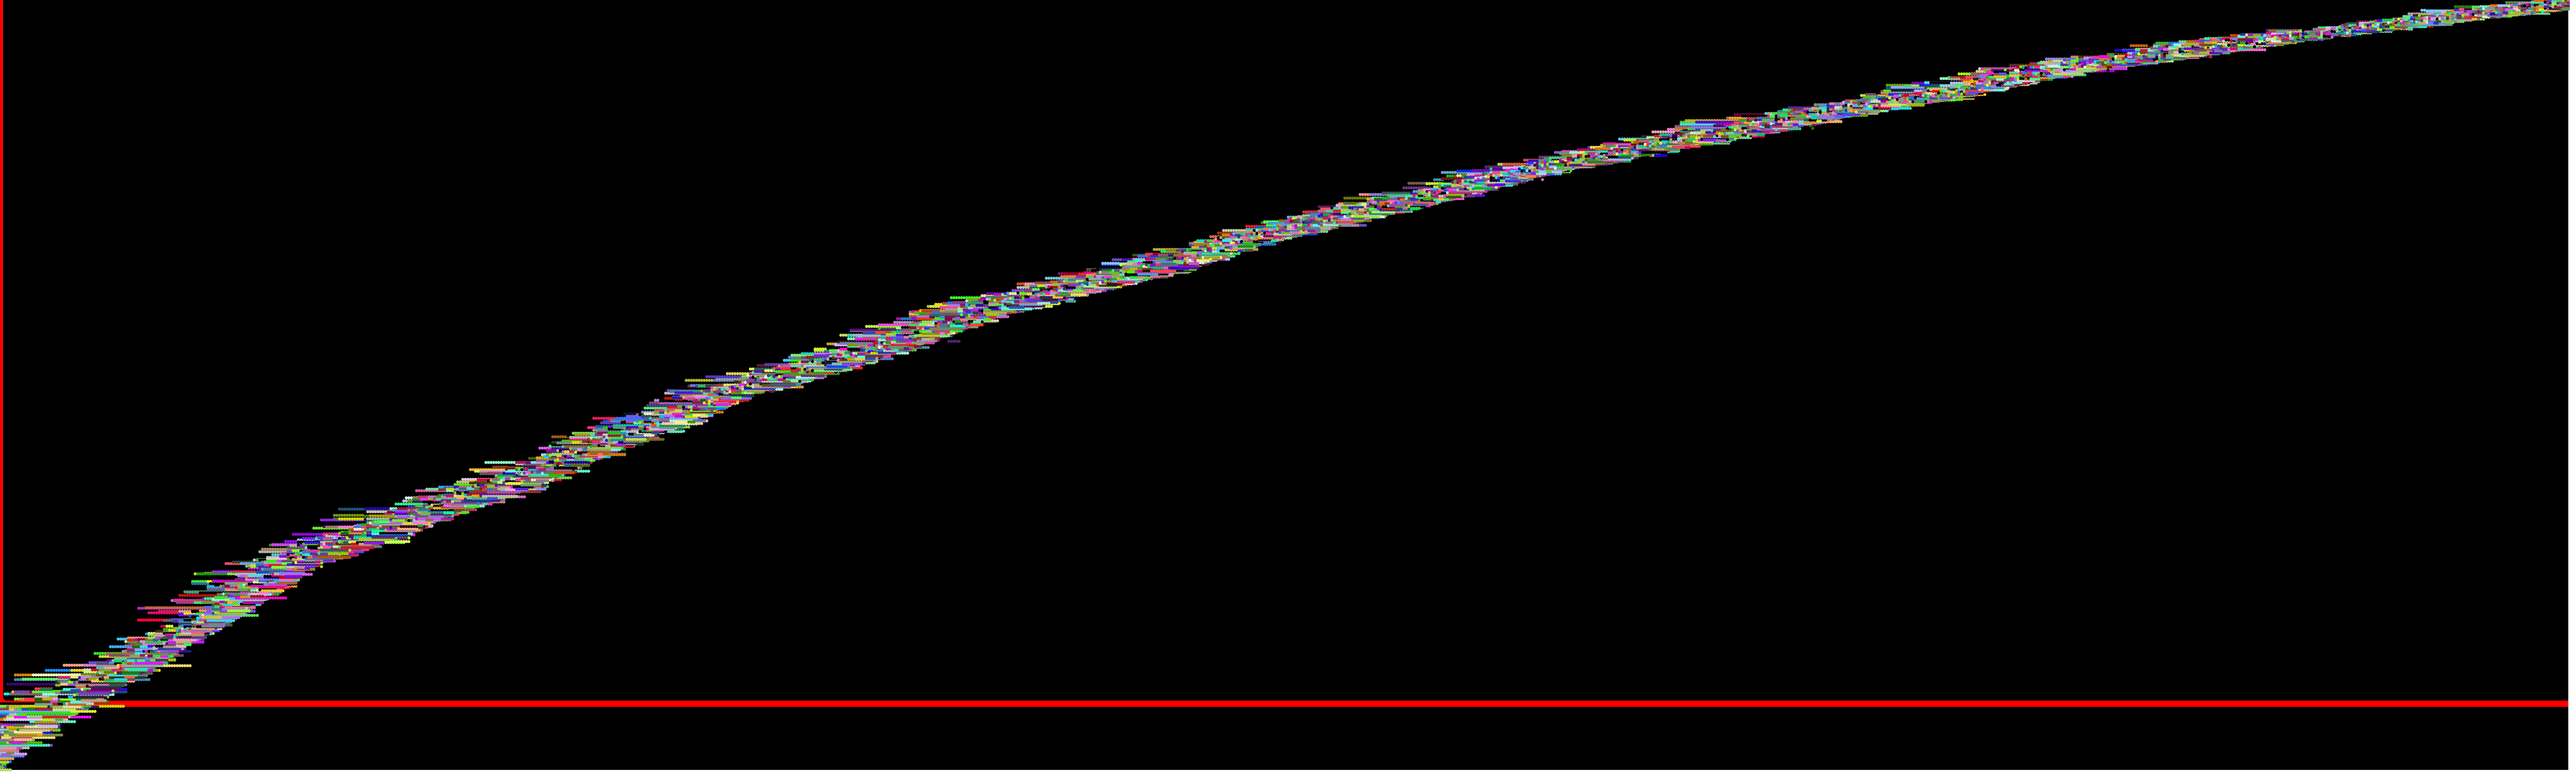
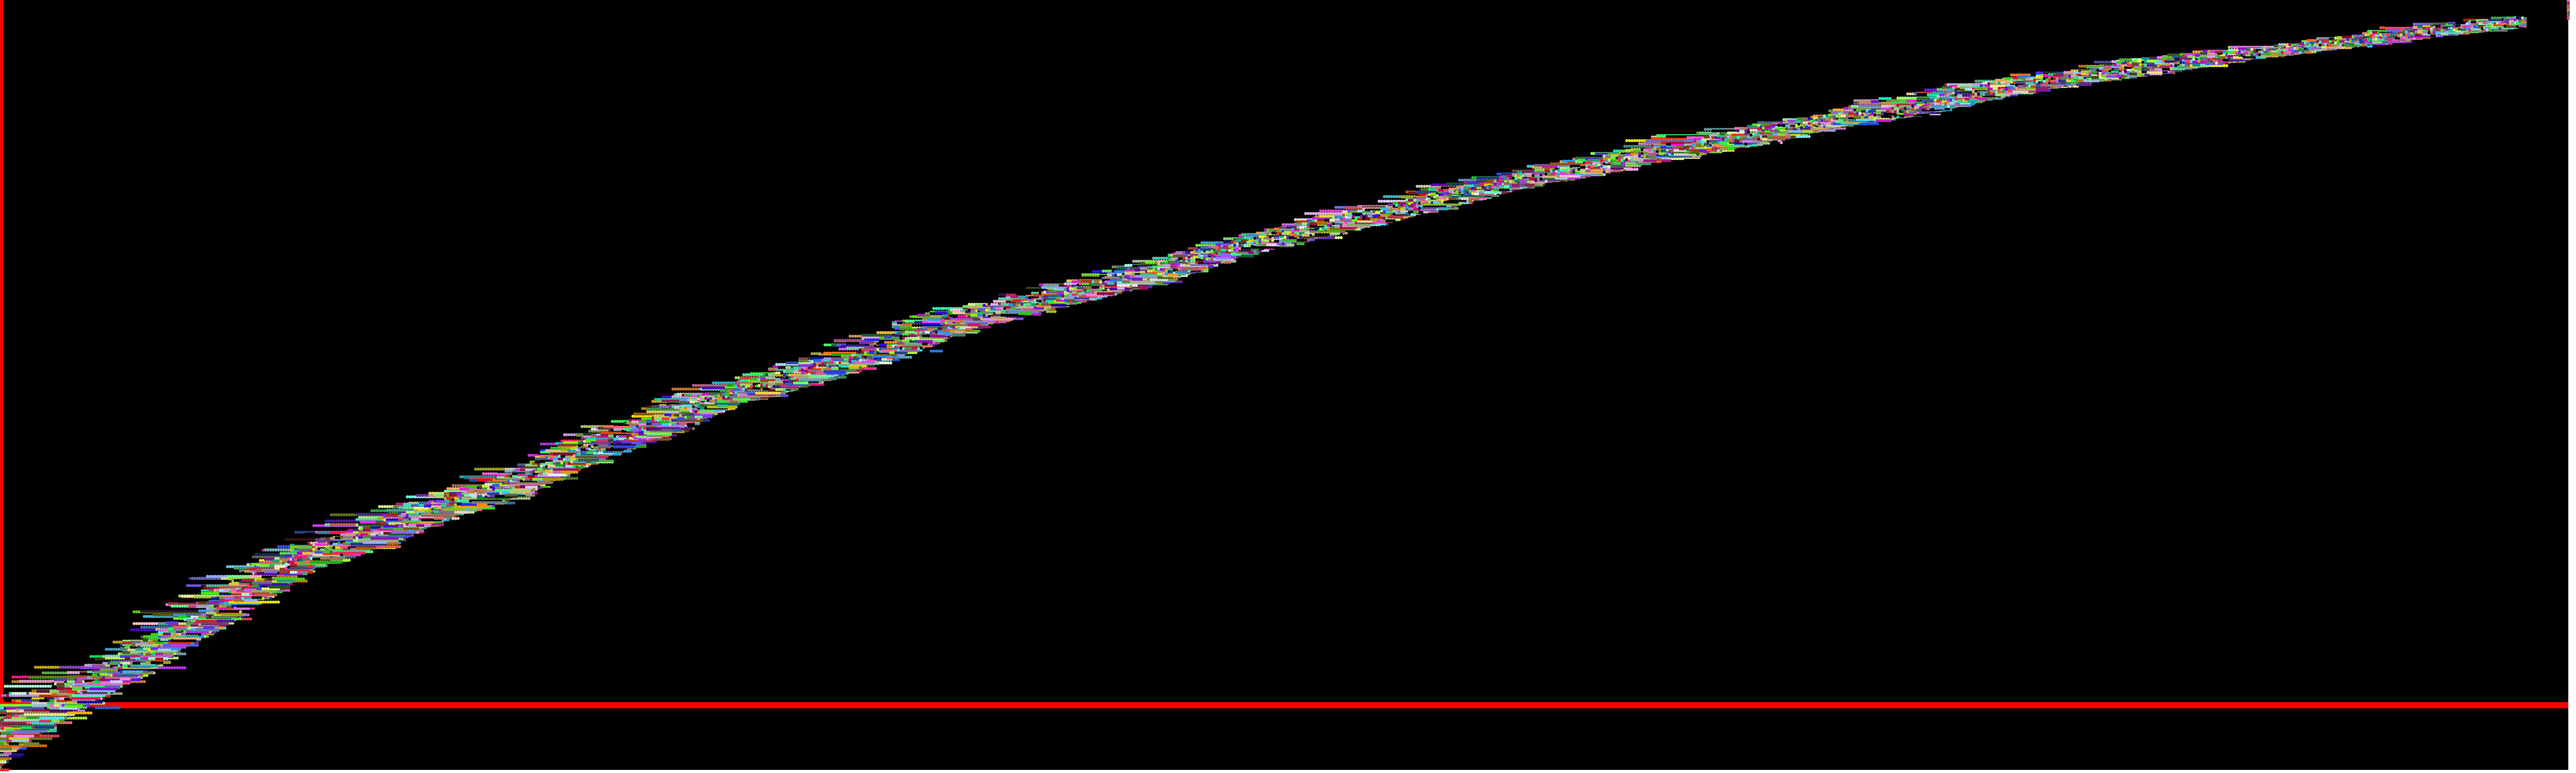
more species more culling

Changed region(s): [[0.0, 0.0, 1.0, 0.9987]]

diff --git a/index.js b/index.js
@@ -5,7 +5,7 @@ const apiurls = [post];
 let aggrocalls = 0;
 const active_forms = {};
 // "configuration string":{"stats":{}, "age":0}
-const max_forms = 100;
+const max_forms = 125;
 const iterations = 100000000;
 const log_interval = 100; //interval to save a snapshot of active_forms in ./log/
 fs.mkdirSync("../../../reactorsaves", { recursive: true });
@@ -174,8 +174,8 @@ async function main() {
         }).forEach((value, index) => {
             changesbefore.push(active_forms[value]["stats"]["output"]["avg"]);
         });
-        for (let j = 0; j < Math.ceil(Math.random() * max_forms / 5); j++) {
-            if (Object.keys(active_forms).length >= max_forms / 2) { //prevent population from dropping too much (/shouldn't/ be needed after startup)
+        for (let j = 0; j < Math.ceil(Math.random() * max_forms); j++) {
+            if (Object.keys(active_forms).length >= max_forms / 3) { //prevent population from dropping too much (/shouldn't/ be needed after startup)
                 let weakest_arr = Object.keys(active_forms).sort((a, b) => {
                     return active_forms[a]["stats"]["output"]["avg"] - active_forms[b]["stats"]["output"]["avg"];
                 });
